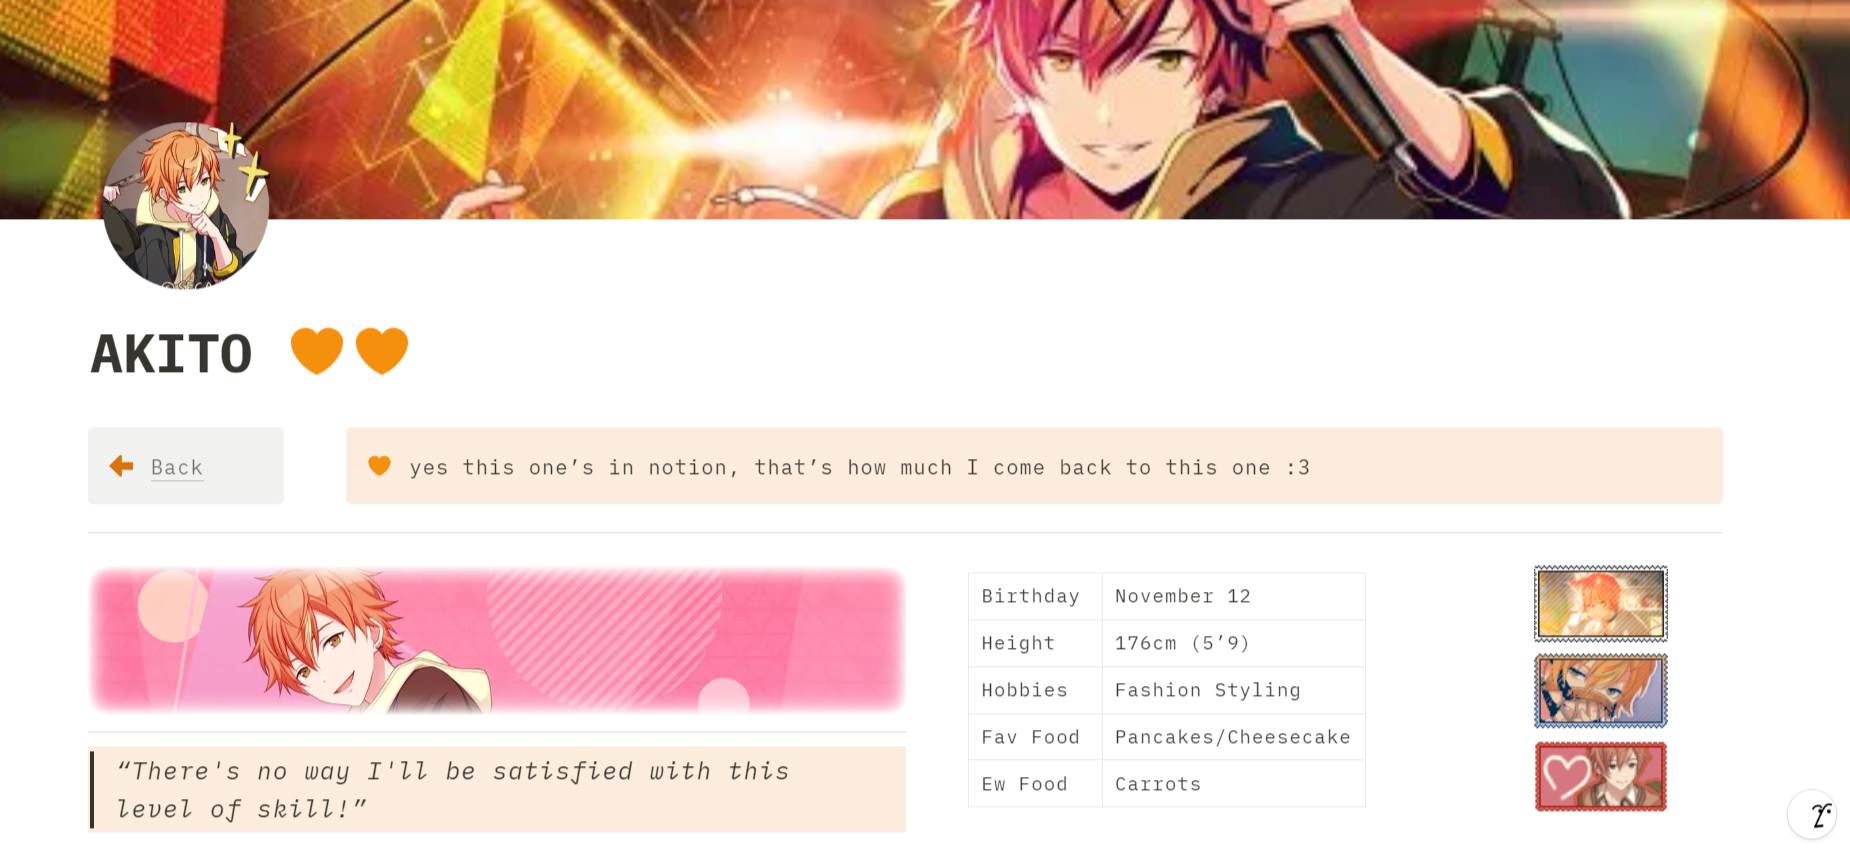
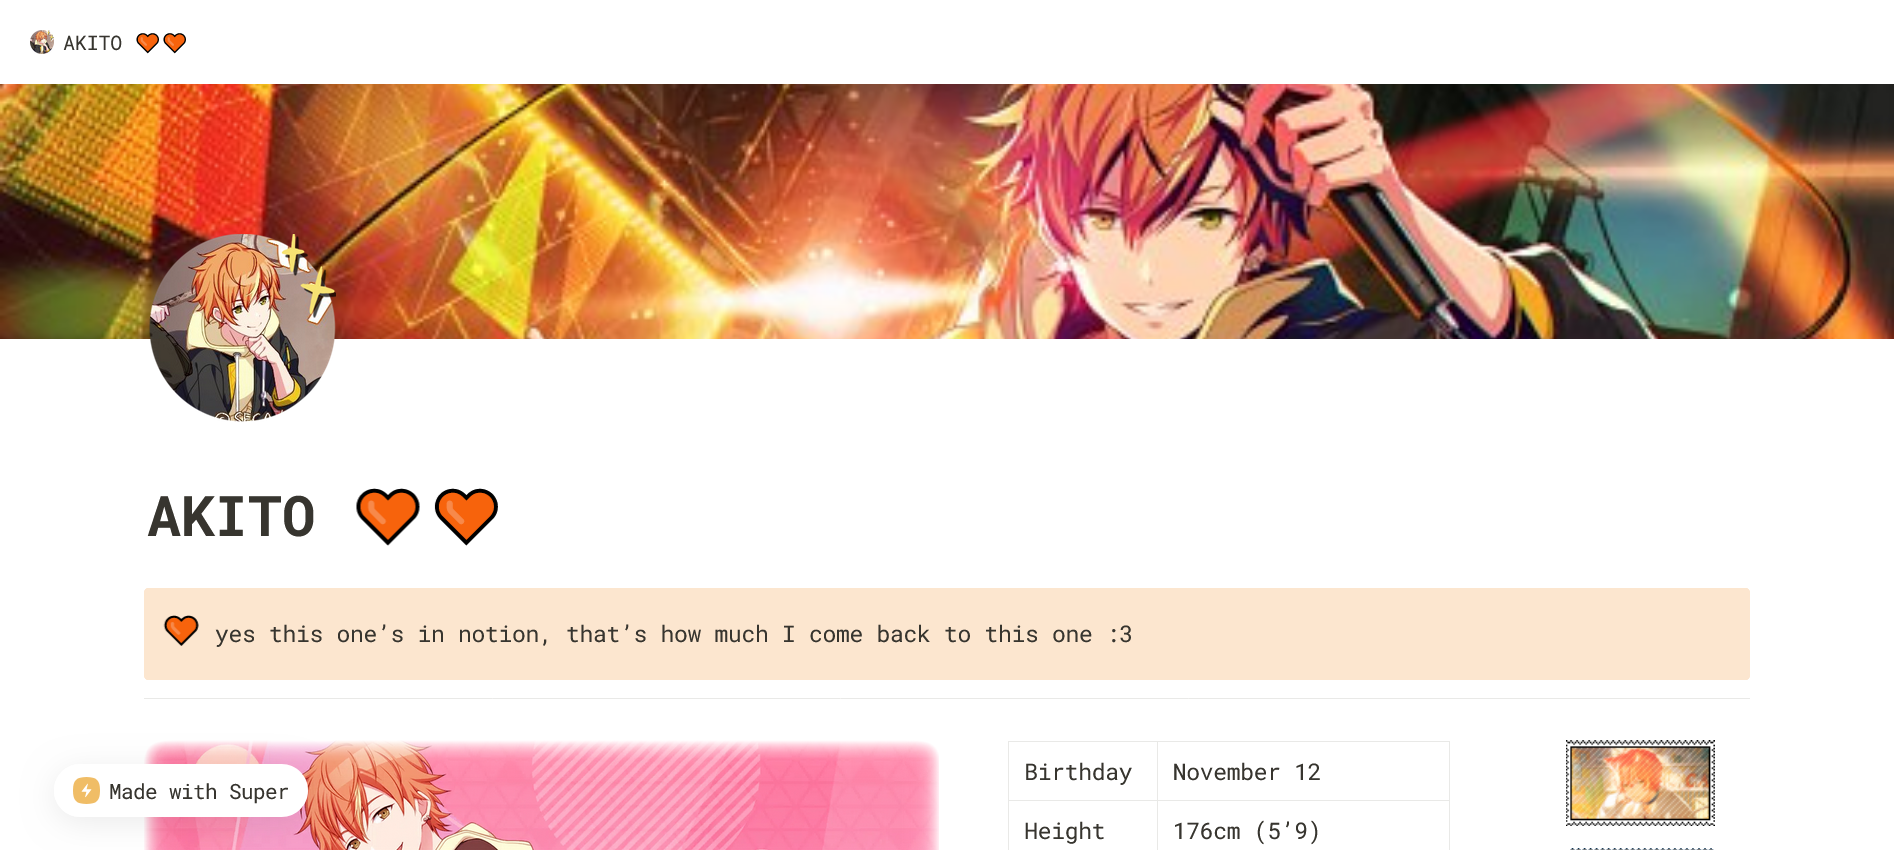
New links and shrine update!

diff --git a/content/links.html b/content/links.html
@@ -288,6 +288,10 @@ name: links
             <a href="https://zelkova.neocities.org/" target="_blank"><img src="images/buttons/links/aster_banner.gif" width="88" height="31"></a> 
             <a href="https://www.hellomei.dev/" target="_blank"><img src="images/buttons/links/hellomei.gif" width="88" height="31"></a> 
             <a href="https://sugarbean.net/" target="_blank"><img src="images/buttons/links/sugarbean.png" width="88" height="31"></a> 
+            <a href="https://onlywonder.net" target="_blank"><img src="images/buttons/links/wonderbtn.png" width="88" height="31"></a> 
+            <a href="https://ralts.neocities.org" target="_blank"><img src="images/buttons/links/raltsbtn.png" width="88" height="31"></a> 
+            <a href="https://foggybear42.neocities.org" target="_blank"><img src="images/buttons/links/foggybear42-red.gif" width="88" height="31"></a> 
+            <a href="https://colortraks.net" target="_blank"><img src="https://colortraks.net/images/88x31/sitebutton.gif" width="88" height="31"></a> 
             </div><br>
             <b>~ sites with no button ~</b><br>
             <a id="color" href="https://katiepla.net/" target="_blank">KatiePla.net</a> |

diff --git a/public/links.html b/public/links.html
@@ -320,6 +320,10 @@
             <a href="https://zelkova.neocities.org/" target="_blank"><img src="images/buttons/links/aster_banner.gif" width="88" height="31"></a> 
             <a href="https://www.hellomei.dev/" target="_blank"><img src="images/buttons/links/hellomei.gif" width="88" height="31"></a> 
             <a href="https://sugarbean.net/" target="_blank"><img src="images/buttons/links/sugarbean.png" width="88" height="31"></a> 
+            <a href="https://onlywonder.net" target="_blank"><img src="images/buttons/links/wonderbtn.png" width="88" height="31"></a> 
+            <a href="https://ralts.neocities.org" target="_blank"><img src="images/buttons/links/raltsbtn.png" width="88" height="31"></a> 
+            <a href="https://foggybear42.neocities.org" target="_blank"><img src="images/buttons/links/foggybear42-red.gif" width="88" height="31"></a> 
+            <a href="https://colortraks.net" target="_blank"><img src="https://colortraks.net/images/88x31/sitebutton.gif" width="88" height="31"></a> 
             </div><br>
             <b>~ sites with no button ~</b><br>
             <a id="color" href="https://katiepla.net/" target="_blank">KatiePla.net</a> |

diff --git a/content/shrines/index.html b/content/shrines/index.html
@@ -61,10 +61,10 @@ name: shrines/
                 <img class="sitepic" src="/images/shrines/straykids/straykids-card.png">
                 <p class="title">lockheartlove.neocities.org</p>
             </a>
-            <a class="site" href="https://baileylockheart.notion.site/AKITO-14da9ba5baa580e99f0be10969c1ddc2" target="_blank">
+            <a class="site" href="https://akito.super.site/" target="_blank">
                 <h3>&#9734; Akito Shinonome Shrine</h3>
                 <img class="sitepic" src="/images/shrines/akito-card.png">
-                <p class="title">baileylockheart.notion.site</p>
+                <p class="title">akito.super.site</p>
             </a>
             <a class="site" href="/shrines/maddsbuckley.html">
                 <h3>&#9734; Madds Buckley Shrine</h3>

diff --git a/public/shrines/index.html b/public/shrines/index.html
@@ -93,10 +93,10 @@
                 <img class="sitepic" src="/images/shrines/straykids/straykids-card.png">
                 <p class="title">lockheartlove.neocities.org</p>
             </a>
-            <a class="site" href="https://baileylockheart.notion.site/AKITO-14da9ba5baa580e99f0be10969c1ddc2" target="_blank">
+            <a class="site" href="https://akito.super.site/" target="_blank">
                 <h3>&#9734; Akito Shinonome Shrine</h3>
                 <img class="sitepic" src="/images/shrines/akito-card.png">
-                <p class="title">baileylockheart.notion.site</p>
+                <p class="title">akito.super.site</p>
             </a>
             <a class="site" href="/shrines/maddsbuckley.html">
                 <h3>&#9734; Madds Buckley Shrine</h3>

diff --git a/public/graphics/blinkies.html b/public/graphics/blinkies.html
@@ -253,6 +253,8 @@
     <img src="/images/blinkies/blinkie-stop-calling-me.gif" alt="stop calling me" height="20" width="150">
     <img src="/images/blinkies/masculinity.gif" alt="masculinity" height="20" width="150">
     <img src="/images/blinkies/LGBTQ.gif" alt="progress pride flag" height="20" width="150">
+    <img src="/images/blinkies/BlinkieHolic.gif" alt="blinkieholic, insert evil laughter here" height="20" width="150">
+    <img src="/images/blinkies/stealthisblinkie.gif" alt="steal this blinkie" height="20" width="150">
             </div>
             <footer>
                 <p>♡&nbsp;&nbsp;<a href="https://neocities.org/site/lockheartlove" target="_blank" style="text-decoration: none;">Follow the Site</a>&nbsp;&nbsp;♡</p>

diff --git a/content/graphics/blinkies.html b/content/graphics/blinkies.html
@@ -221,3 +221,5 @@ name: graphics/blinkies
     <img src="/images/blinkies/blinkie-stop-calling-me.gif" alt="stop calling me" height="20" width="150">
     <img src="/images/blinkies/masculinity.gif" alt="masculinity" height="20" width="150">
     <img src="/images/blinkies/LGBTQ.gif" alt="progress pride flag" height="20" width="150">
+    <img src="/images/blinkies/BlinkieHolic.gif" alt="blinkieholic, insert evil laughter here" height="20" width="150">
+    <img src="/images/blinkies/stealthisblinkie.gif" alt="steal this blinkie" height="20" width="150">
